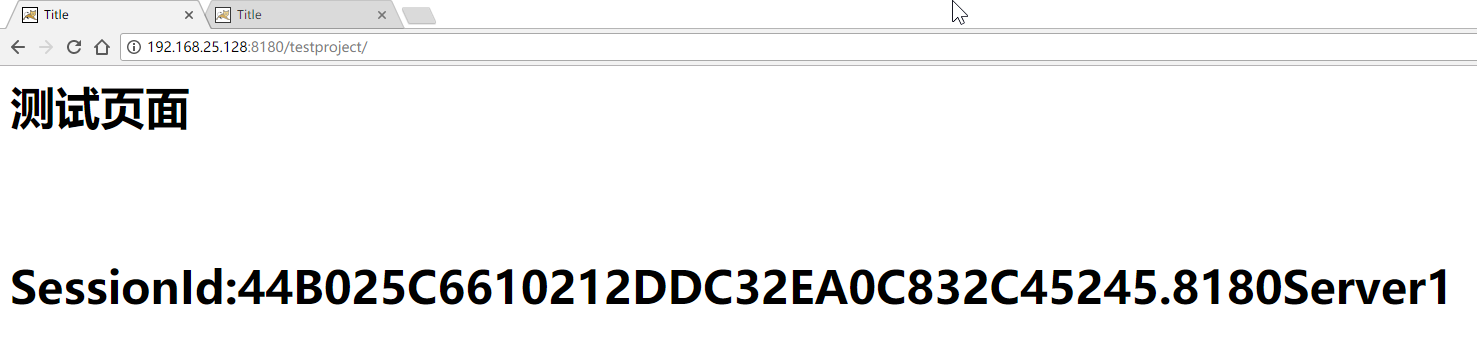
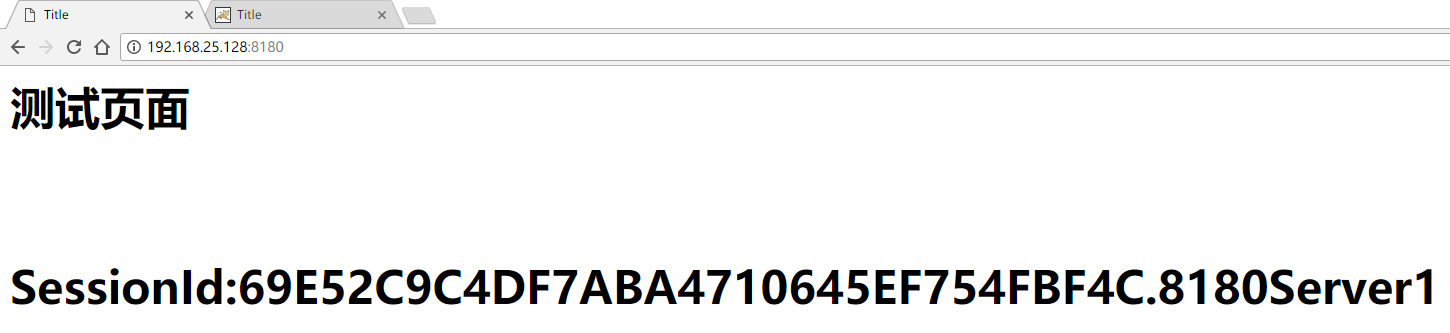
Site updated: 2018-02-13 16:36:07

diff --git a/blog/2018/02/12/2018-02-12-Nginx反向代理和负载均衡实现-上篇/index.html b/blog/2018/02/12/2018-02-12-Nginx反向代理和负载均衡实现-上篇/index.html
@@ -110,7 +110,7 @@
 <meta property="og:image" content="http://dijia478.cn/blog/2018/02/12/2018-02-12-Nginx反向代理和负载均衡实现-上篇/nginx12.png">
 <meta property="og:image" content="http://dijia478.cn/blog/2018/02/12/2018-02-12-Nginx反向代理和负载均衡实现-上篇/nginx13.png">
 <meta property="og:image" content="http://dijia478.cn/blog/2018/02/12/2018-02-12-Nginx反向代理和负载均衡实现-上篇/nginx14.png">
-<meta property="og:updated_time" content="2018-02-13T06:18:05.480Z">
+<meta property="og:updated_time" content="2018-02-13T08:32:47.134Z">
 <meta name="twitter:card" content="summary">
 <meta name="twitter:title" content="Nginx反向代理和负载均衡实现-上篇">
 <meta name="twitter:description" content="准备纯干活，分上、中、下，三篇来写。总结一下Nginx反向代理和负载均衡实现（上篇），redis的session共享（中篇），keepalived高可用（下篇）。只是停留在使用的层面上，没有深入原理。">
@@ -404,7 +404,7 @@
                   <span class="post-meta-item-text">字数统计&#58;</span>
                 
                 <span title="字数统计">
-                  1,148
+                  1,172
                 </span>
               
 
@@ -475,7 +475,7 @@
 <img src="/blog/2018/02/12/2018-02-12-Nginx反向代理和负载均衡实现-上篇/nginx10.png">
 <p>修改Engine标签，添加jvmRoute属性，用于标识nginx访问的是哪个服务器tomcat，tomcat01服务器标识为8180Server1，tomcat02服务器标识为8280Server2。我这里只演示tomcat01</p>
 <img src="/blog/2018/02/12/2018-02-12-Nginx反向代理和负载均衡实现-上篇/nginx11.png">
-<p>在两台tomcat的server.xml文件，Host标签中添加：<code>&lt;Context path=&quot;&quot; docBase=&quot;testproject&quot;/&gt;</code>，path表示访问路径，docBase为项目名，表示访问项目，这里还是只演示tomcat01</p>
+<p>设置tomcat的虚拟目录，在两台tomcat的server.xml文件，Host标签中添加：<code>&lt;Context path=&quot;&quot; docBase=&quot;testproject&quot;/&gt;</code>，path表示访问路径，为空的话访问就不用输入项目名，docBase为项目路径，我这是相对路径。这里还是只演示tomcat01</p>
 <img src="/blog/2018/02/12/2018-02-12-Nginx反向代理和负载均衡实现-上篇/nginx12.png">
 <p>此时，重新启动两个tomcat，访问两个项目，两台服务器访问显示如下：</p>
 <img src="/blog/2018/02/12/2018-02-12-Nginx反向代理和负载均衡实现-上篇/nginx13.png">

diff --git a/index.html b/index.html
@@ -390,7 +390,7 @@
                   <span class="post-meta-item-text">字数统计&#58;</span>
                 
                 <span title="字数统计">
-                  1,148
+                  1,172
                 </span>
               
 

diff --git a/css/main.css b/css/main.css
@@ -2044,7 +2044,7 @@ img:hover {
   width: 4px;
   height: 4px;
   border-radius: 50%;
-  background: #9dcfa1;
+  background: #c3a2ff;
 }
 .links-of-blogroll {
   font-size: 13px;
